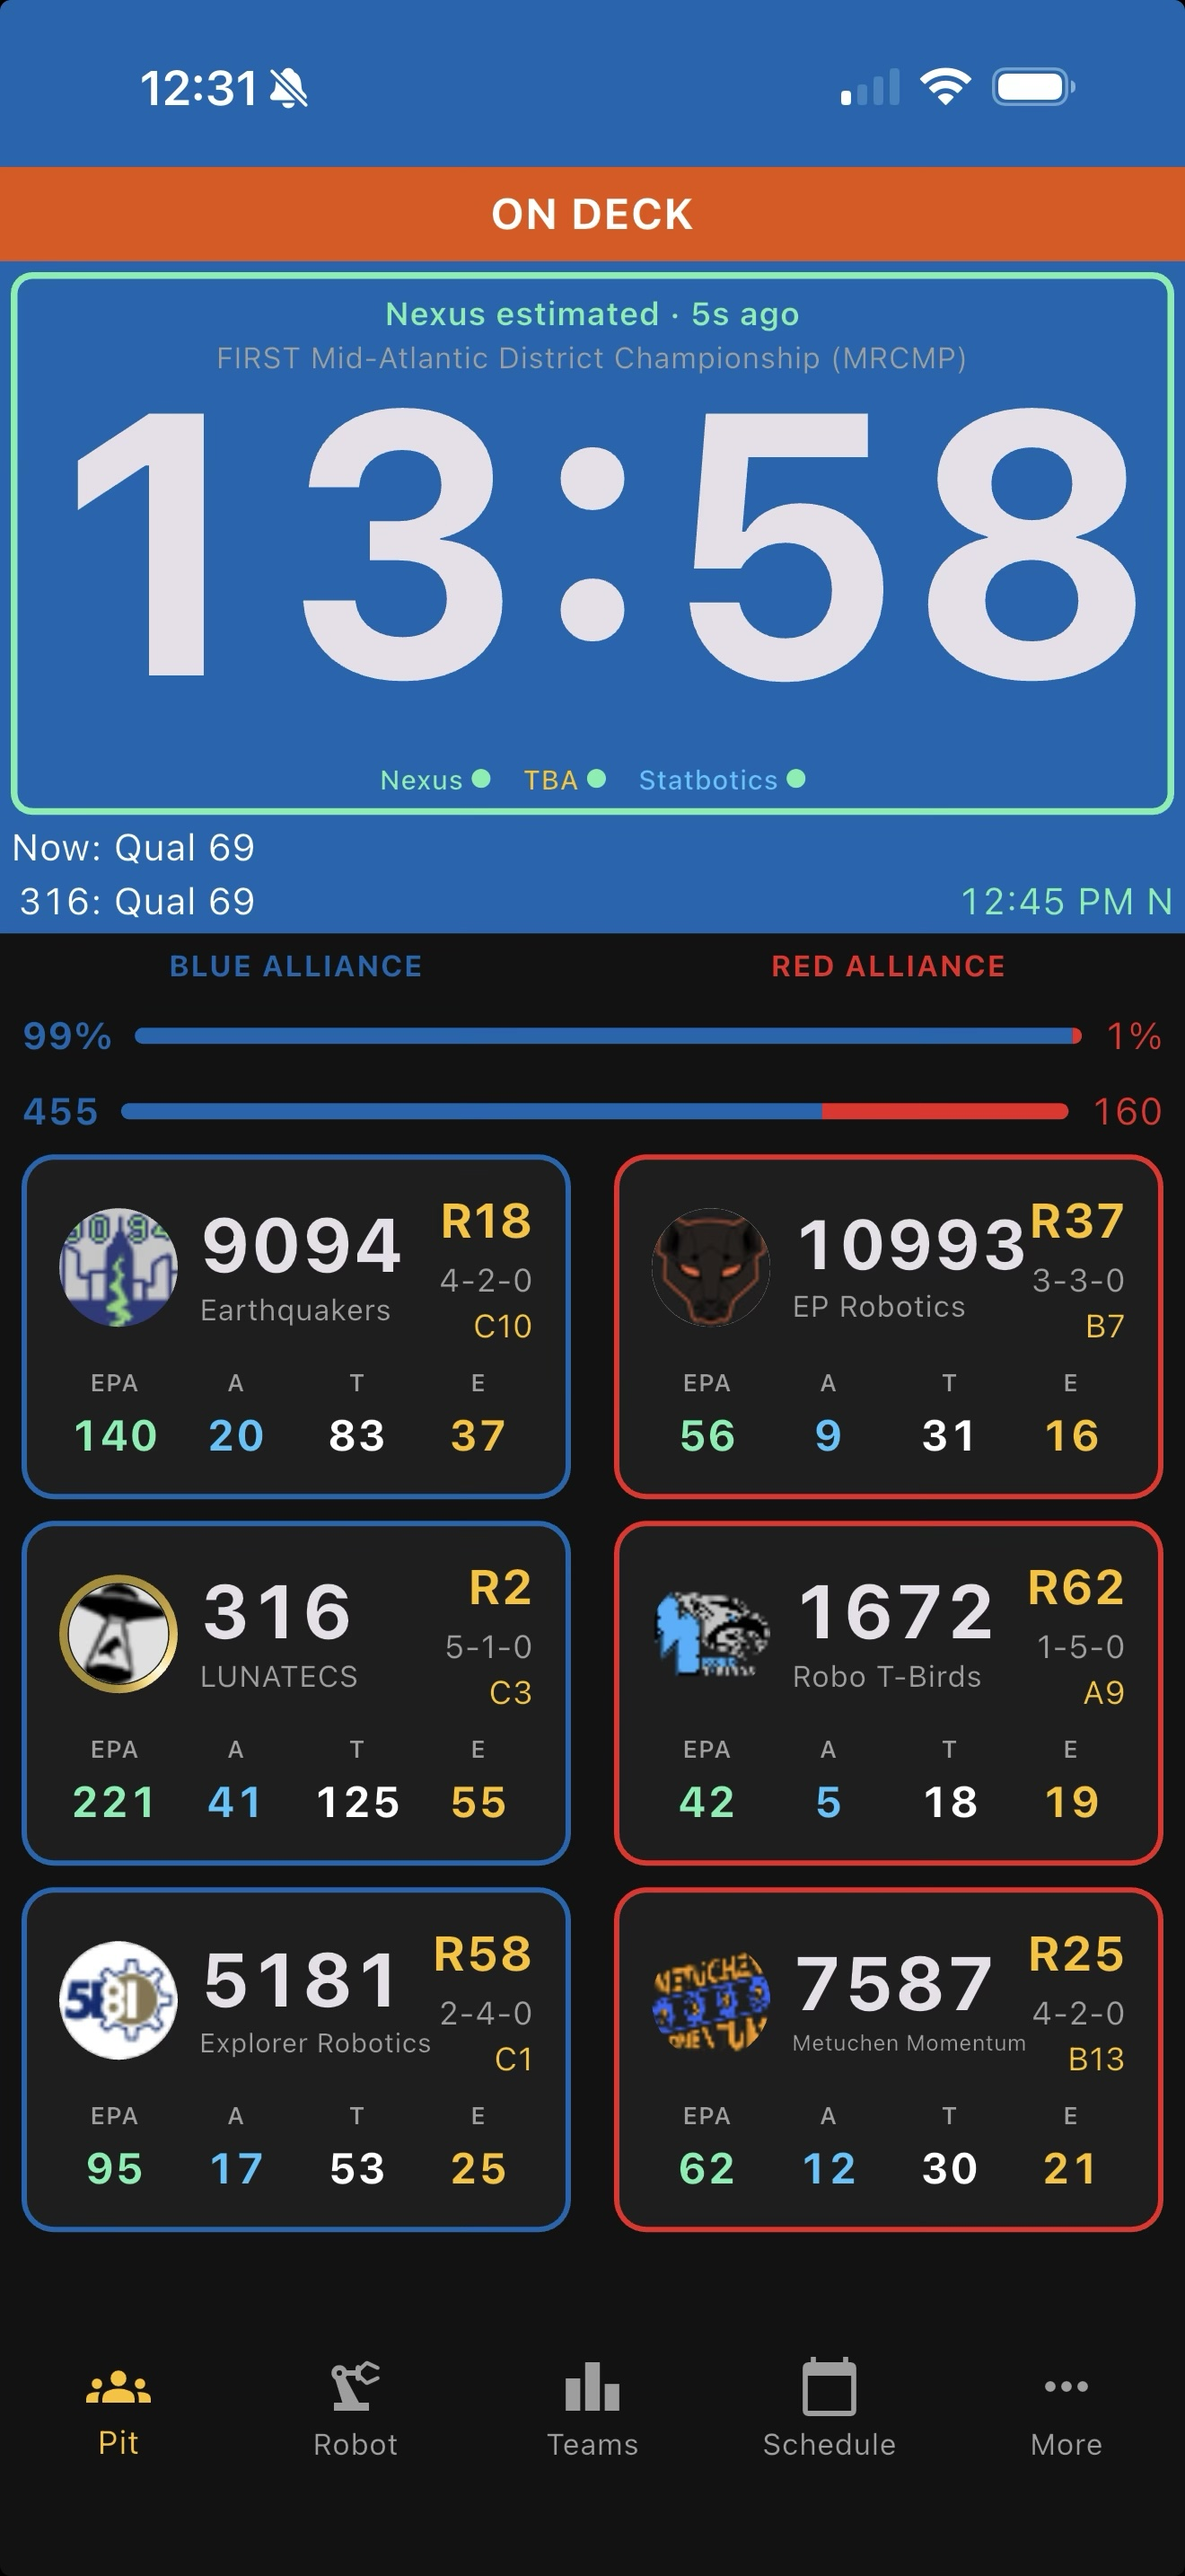
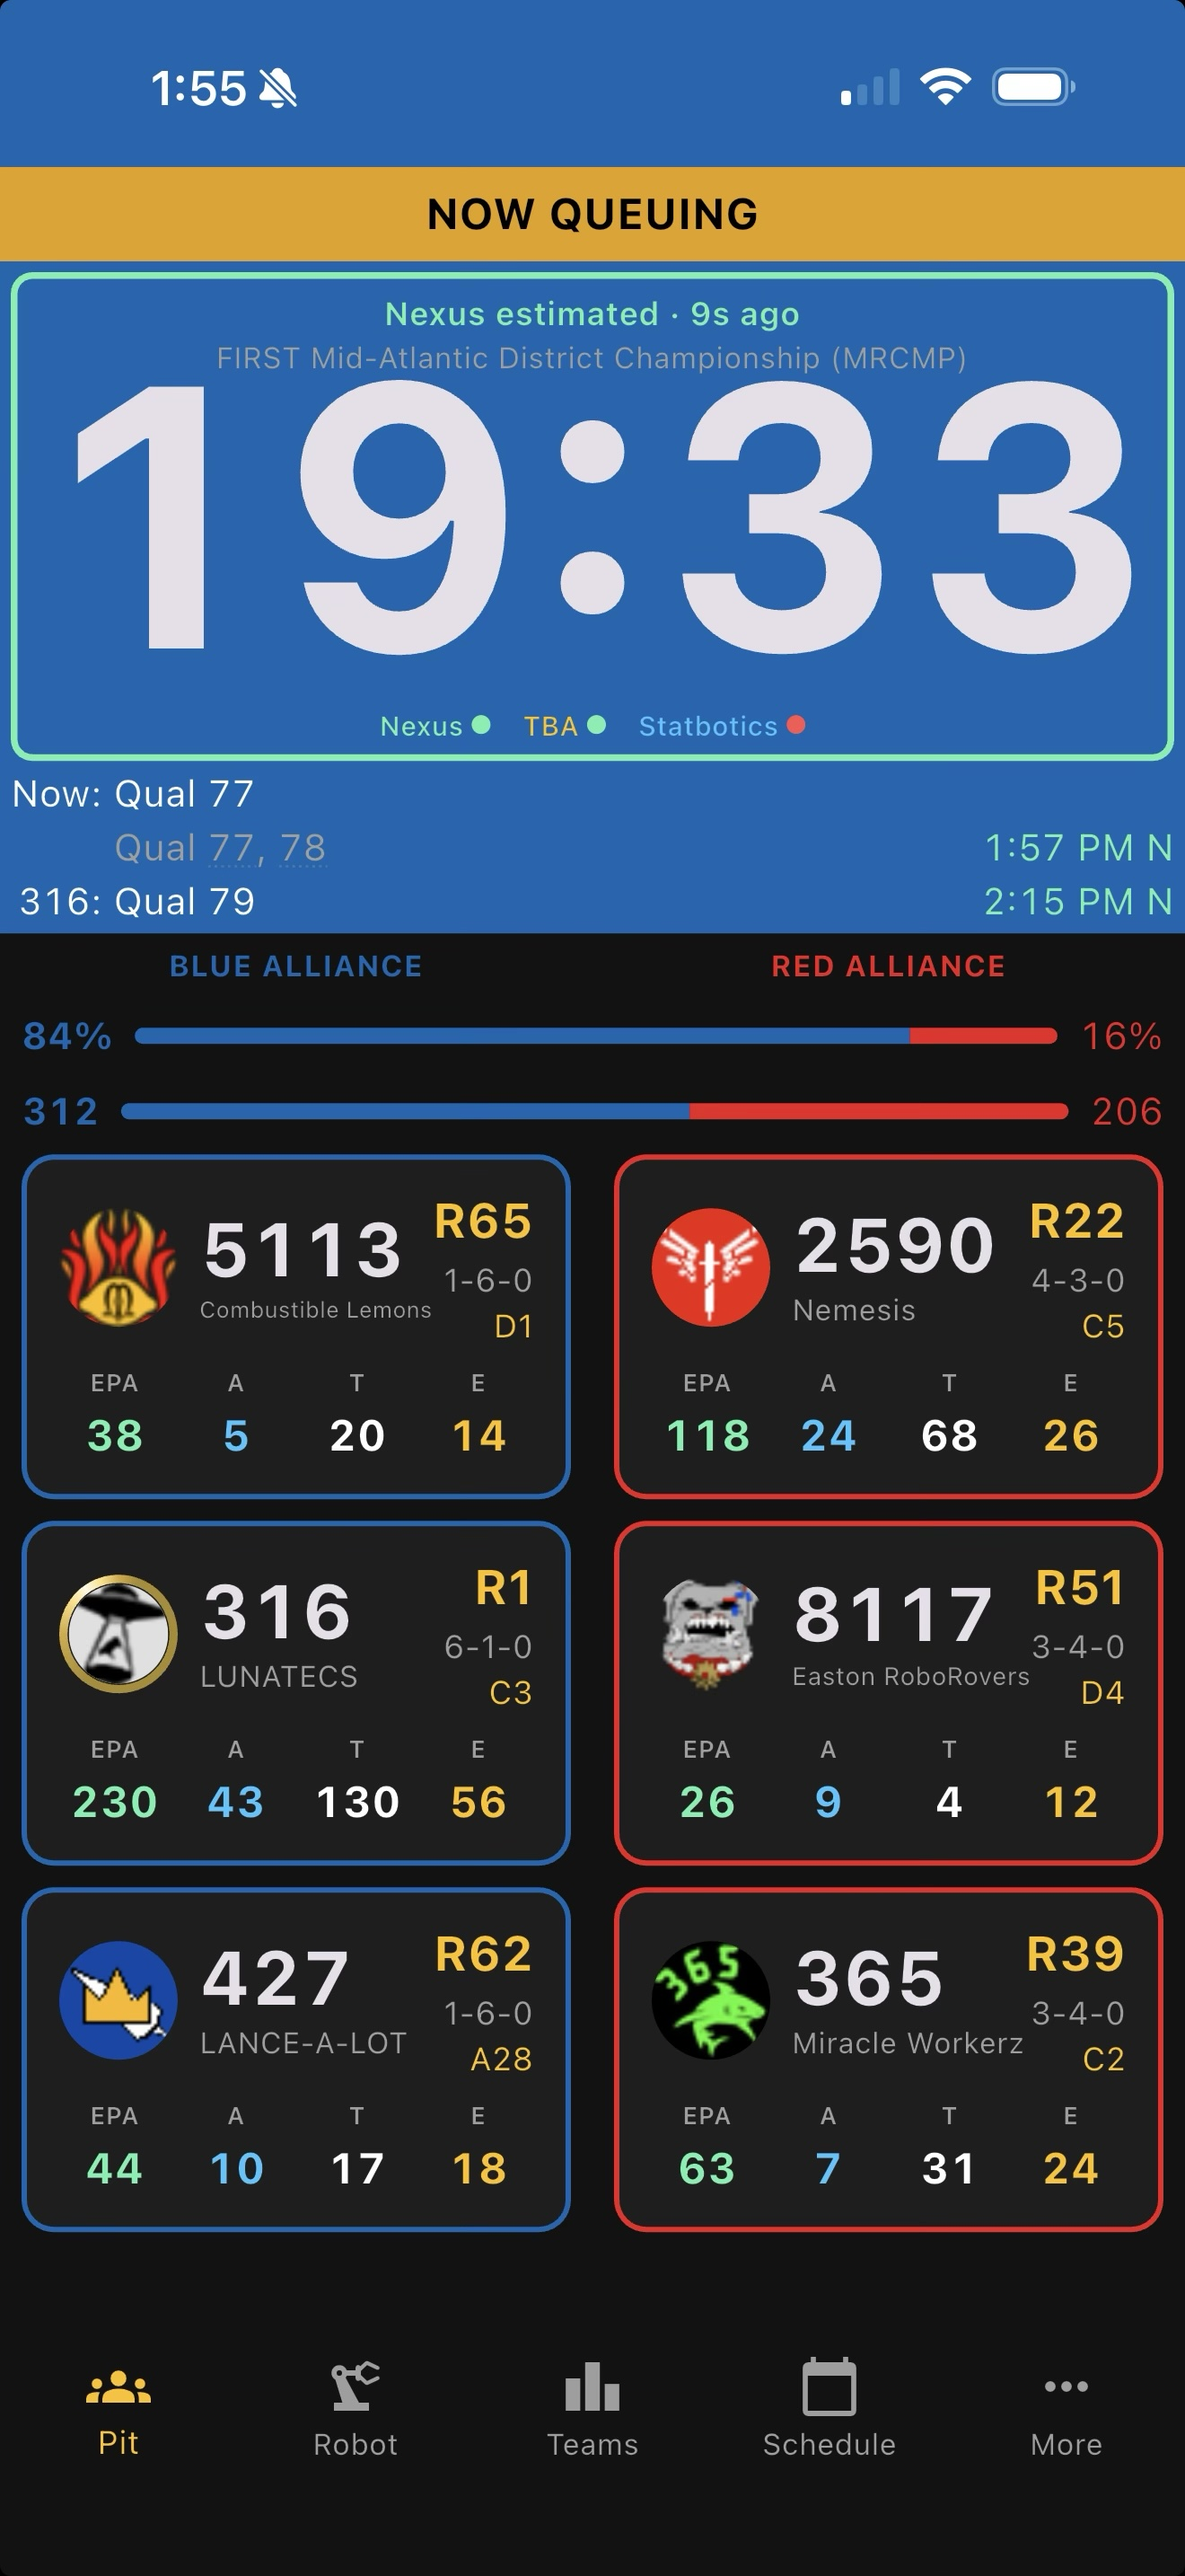
Refresh pit screenshot with NOW QUEUING state

diff --git a/docs/screenshots/pit.md b/docs/screenshots/pit.md
@@ -8,7 +8,7 @@ title: Pit View
 
 The home screen. Everything a driver or coach wants at a glance.
 
-- **Status banner** (`ON DECK`) — live queuing state from Nexus: `QUEUING SOON` → `NOW QUEUING` → `ON DECK` → `ON FIELD`.
+- **Status banner** (`NOW QUEUING` in this screenshot) — live queuing state from Nexus: `QUEUING SOON` → `NOW QUEUING` → `ON DECK` → `ON FIELD`.
 - **Countdown** — time until your next match. The background color reflects the **alliance color you're assigned to for that match** (blue or red), so a glance across the pit tells you which side you're on. Labeled `Nexus estimated` when real field timing is available, with data-source dots (Nexus / TBA / Statbotics) showing which feeds are currently reachable.
 - **Next-up strip** — what's playing now and the clock time of your next match.
 - **Win-probability bar** and score prediction (Statbotics) comparing the two alliances.
